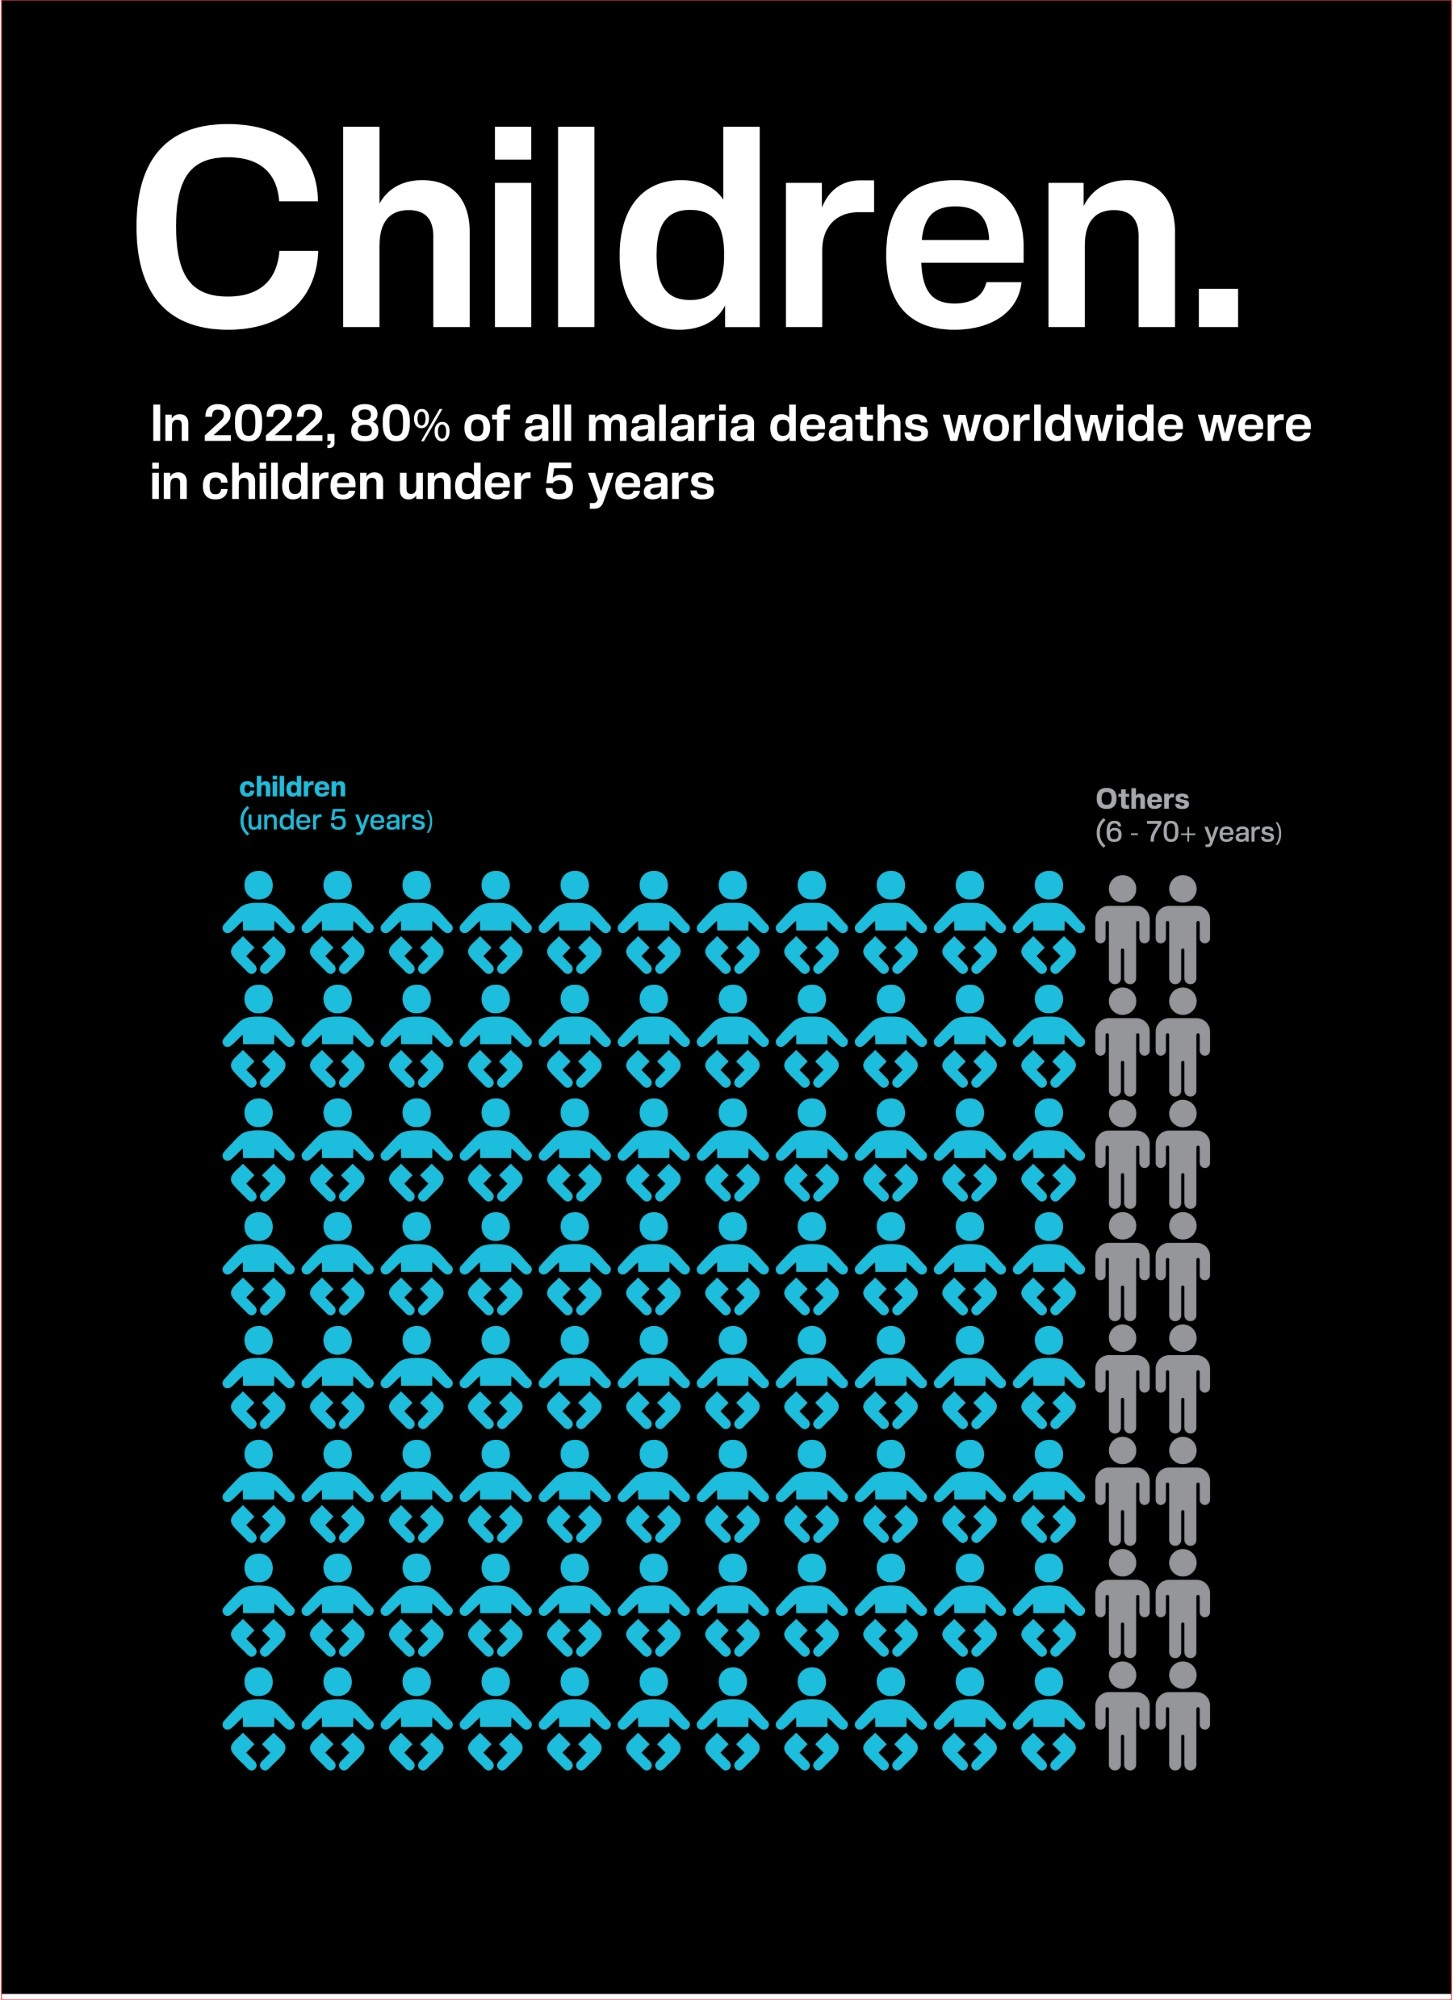
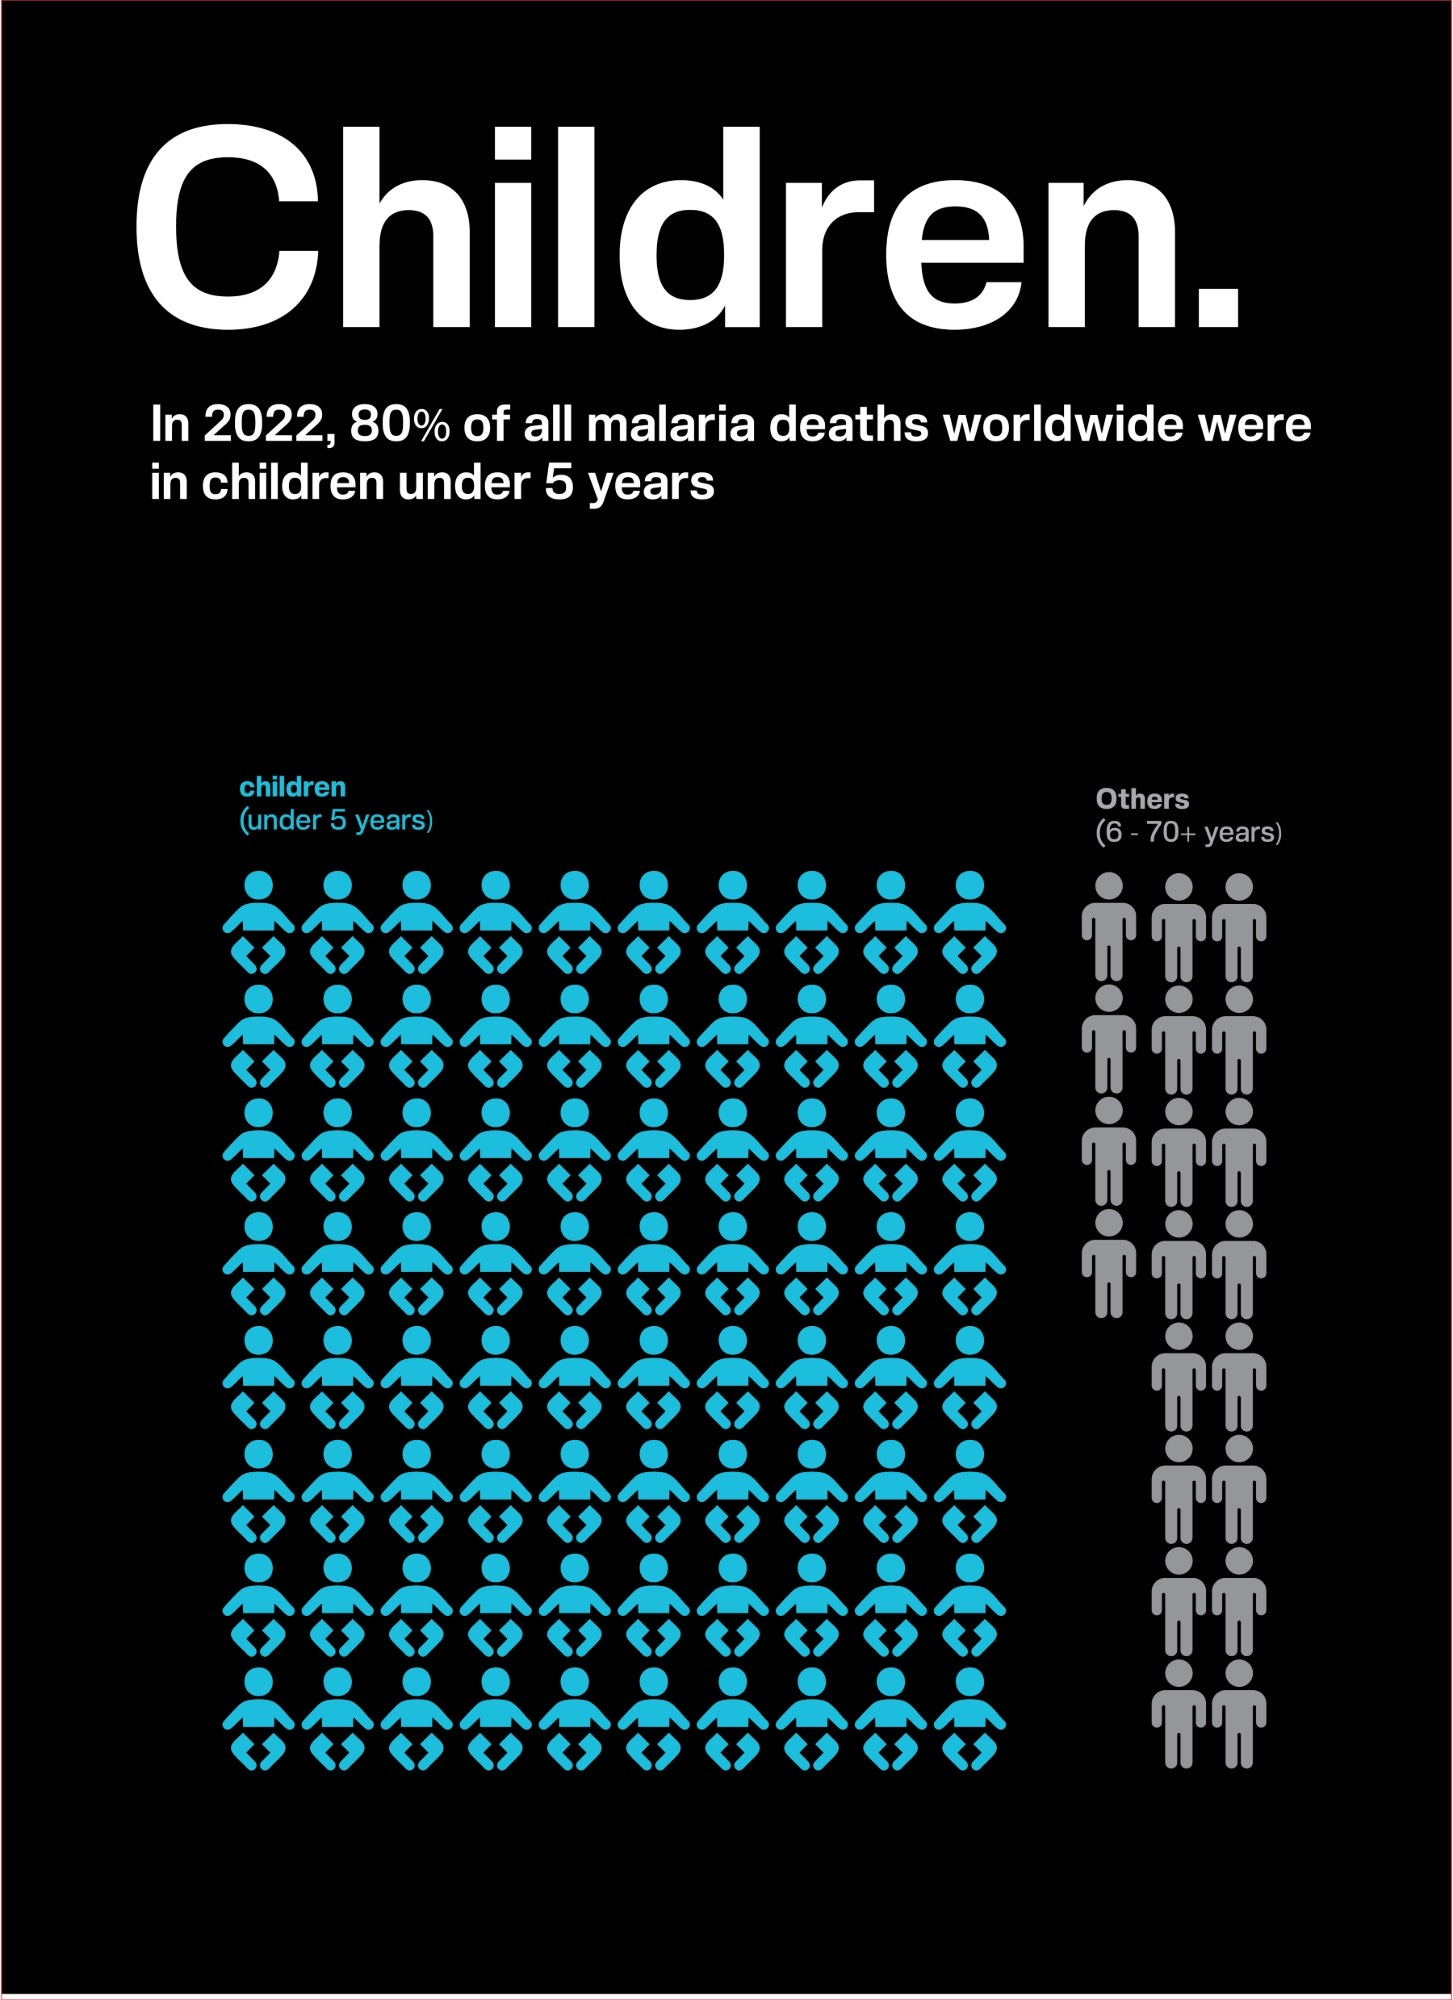
Swap in the corrected posters and publish the series
Five posters re-exported: "funding received" and "last decade" fixed,
the Africans legend now agrees with its own chart label at 234
million, the SMC acronym no longer breaks across a line, and the
Although subhead reads as one sentence.

The Children isotype is redrawn to exactly 80 figures against 20. I
counted it: 80.0% against a stated 80%. That note comes out of "What
I'd Change" and becomes a point in its favour instead — an isotype
should survive being counted.

The remaining note is the Pregnant Women cone, which still shows a
proportion without stating its denominator.

Changed region(s): [[0.6813, 0.434, 0.8672, 0.899]]

diff --git a/projects/malaria-series.html b/projects/malaria-series.html
@@ -130,7 +130,7 @@
       <div class="project-image-full gallery-item clickable">
         <img src="../images/information-design/malaria-series/1-africans.jpg" alt="Africans — a radial isotype of mosquitoes showing that about 94% of the world's malaria burden falls on the African region" style="width: 100%; border-radius: var(--radius-md); box-shadow: var(--shadow-md);">
       </div>
-      <p style="font-size: 0.8rem; color: var(--text-muted); margin-top: 12px; text-align: center; letter-spacing: 0.02em;">Poster one — the whole argument in a single ring: 234 million mosquitoes against everyone else's fifteen</p>
+      <p style="font-size: 0.8rem; color: var(--text-muted); margin-top: 12px; text-align: center; letter-spacing: 0.02em;">Poster one — the whole argument in a single ring: the African region's 234 million against a handful for everywhere else</p>
     </div>
   </section>
 
@@ -242,7 +242,7 @@
 
           <p><strong>Africans.</strong> The opening poster has to establish the asymmetry, and a bar chart would flatten it — one long bar and four stubs is a shape people have seen a thousand times. Instead the WHO regions are drawn as rings of mosquitoes, with the African region's 234 million sweeping around almost the full circle while the Americas' 500,000 amount to a single insect. The comparison is spatial rather than numerical: you feel the ring close before you read a figure.</p>
           <p><strong>Region.</strong> Having established the continent, the next poster narrows to four countries. The mosquitoes are arranged in the silhouette of Africa itself, red for the four countries carrying almost half the burden and pale blue for the rest, with Nigeria's share marked by a single oversized insect sitting where Nigeria sits. The map is made of the thing it is about.</p>
-          <p><strong>Children.</strong> This is the poster where the series stops being about geography. An isotype grid of small figures, overwhelmingly children, with a thin column of adults at the edge. It is the most conventional encoding in the set, deliberately — after two abstract compositions the reader needs something they can count, and the countable thing should be the one that matters most.</p>
+          <p><strong>Children.</strong> This is the poster where the series stops being about geography. An isotype grid of small figures, overwhelmingly children, with a narrow block of adults at the edge. It is the most conventional encoding in the set, deliberately — after two abstract compositions the reader needs something they can count, and the countable thing should be the one that matters most. The grid is drawn to exactly 80 children against 20 adults, so a reader who does count it arrives at the figure in the subhead.</p>
 
           <h3>Movement two — why it is severe</h3>
           <div class="poster-pair">
@@ -286,11 +286,7 @@
           </ul>
 
           <h2>What I'd Change</h2>
-          <p>Two things I would tighten in a second edition, both of the same kind — places where the drawing and the label do not quite agree.</p>
-          <ul>
-            <li>On <em>Children</em>, the isotype grid draws 88 figures against 16, which is 85%, while the subhead states 80%. The grid should be redrawn to 80 and 20 so the count and the caption agree exactly. An isotype's whole claim is that it is countable, and a reader who counts it should not find a different answer.</li>
-            <li>On <em>Pregnant Women</em>, the divided cone shows a proportion but the poster states only the numerator — 13 million pregnancies. The denominator should be on the sheet, or the encoding should be absolute rather than part-to-whole.</li>
-          </ul>
+          <p>One thing I would still tighten. On <em>Pregnant Women</em>, the divided cone shows a proportion but the poster states only the numerator — 13 million pregnancies exposed. The denominator belongs on the sheet, or the encoding should be absolute rather than part-to-whole. A part-to-whole chart whose whole is unstated asks the reader to trust an area they cannot check.</p>
 
           <h2>What This Project Demonstrates</h2>
           <ul>
